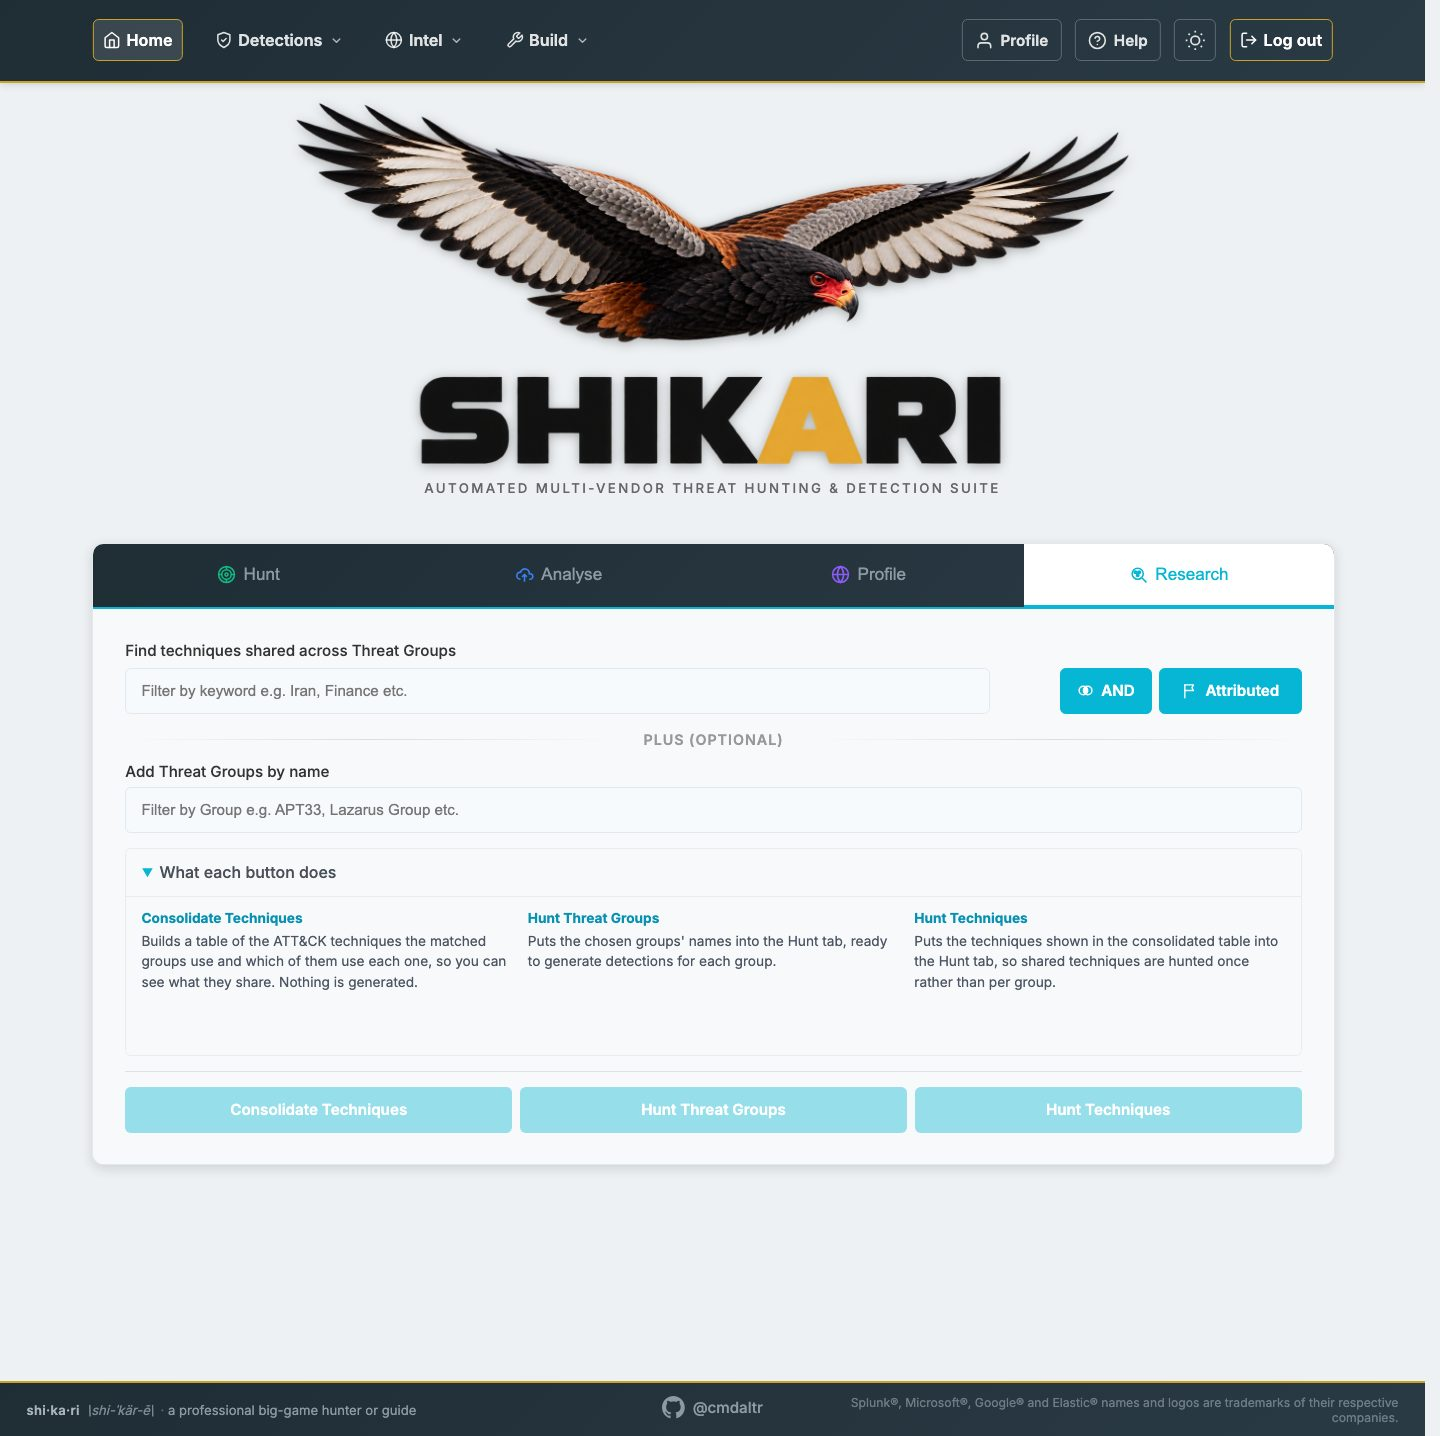
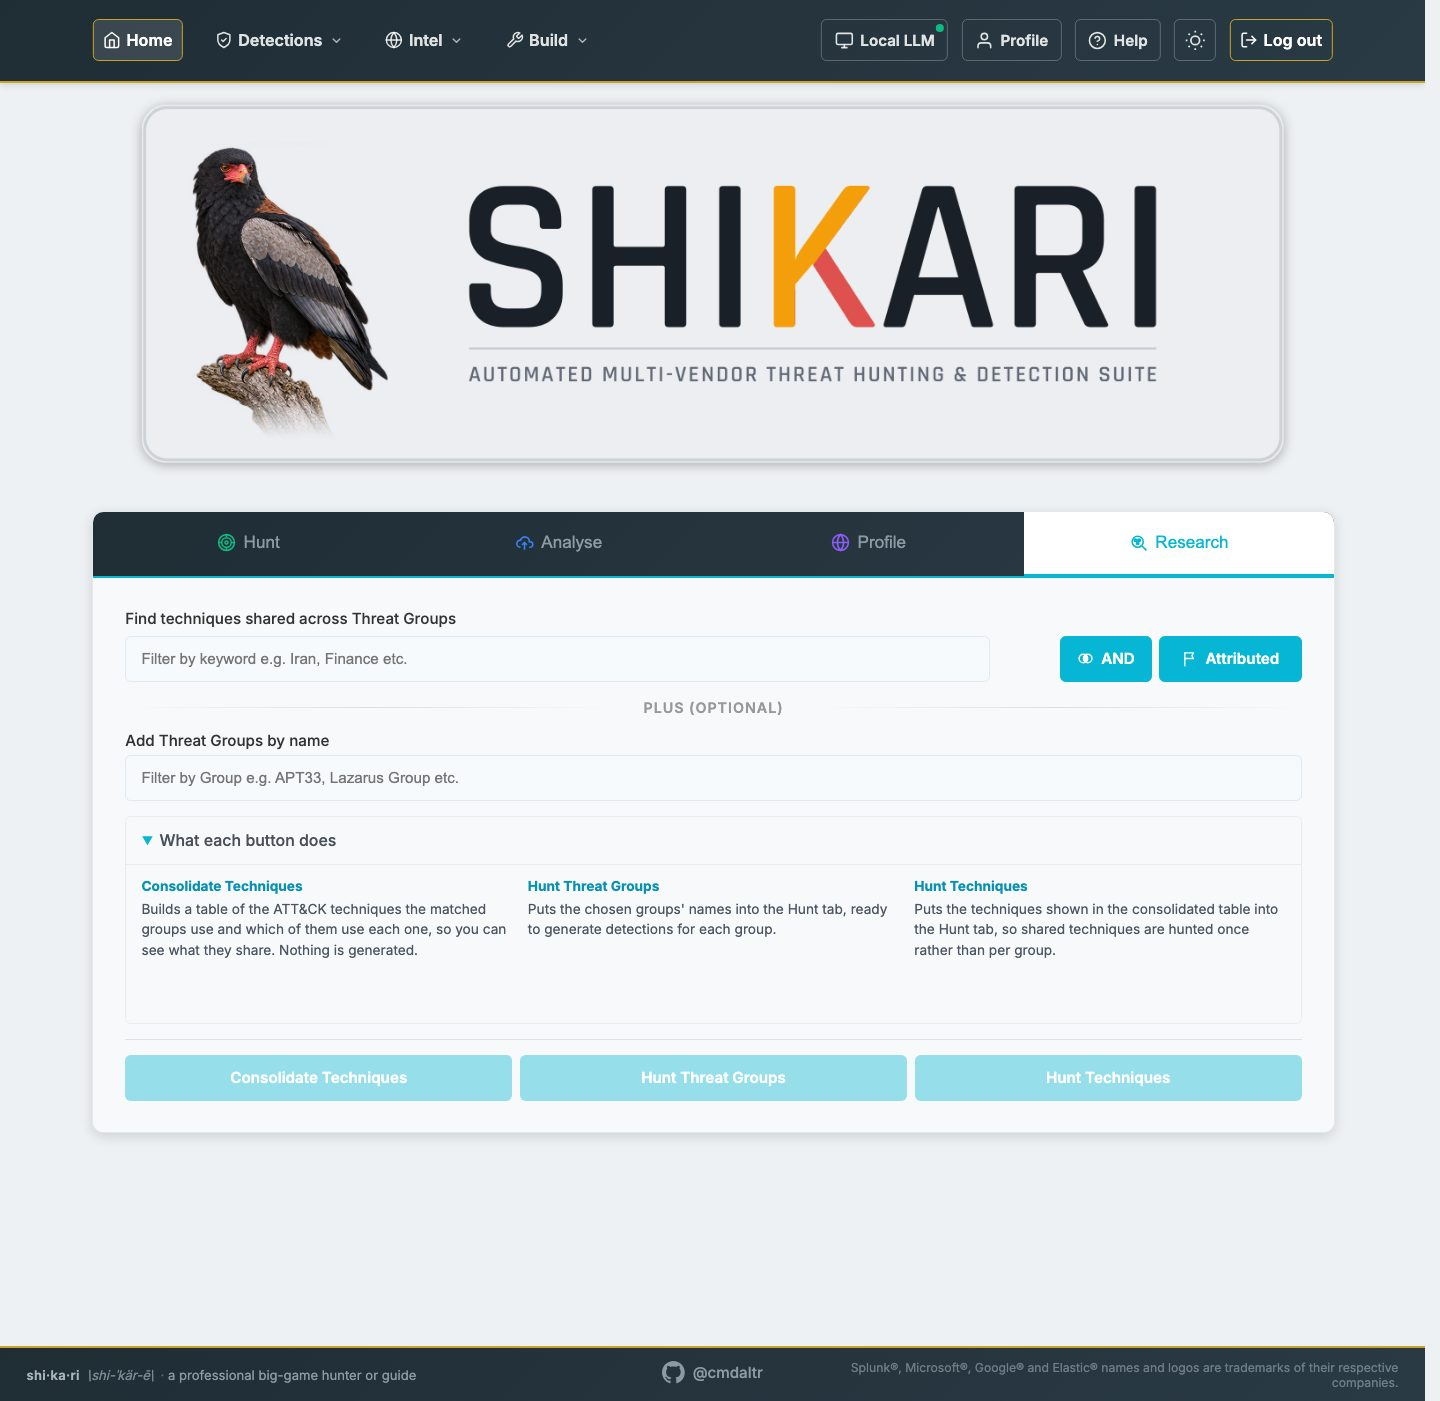
chore(guide): recapture 24 pages on refreshed brand, seed real-group anatomy
Recapture all guide screenshots with the new perched-eagle branding. Fix test_data
populate to tag sample detections 'Group:SampleSpider' so library flows resolve, and
point the results capture at SampleSpider to stay under the height cap. The flows and
anatomy pages intrinsically need real ATT&CK intrusion sets, so the Library is seeded
with APT29, Lazarus Group and Ke3chang hunts for those shots.

Claude-Session: https://claude.ai/code/session_01TdsyJhdE2ikmQ4p4t3y7rH

diff --git a/shikari/cli/test_data.py b/shikari/cli/test_data.py
@@ -283,7 +283,7 @@ def _seed_db(manifest, email):
                 user_id=user.id, title=f"{LABEL} {name} ({tid})", detection_type=DetectionType.DETECTION,
                 visibility=VisibilityType.PRIVATE,
                 content=json.dumps({"technique_id": tid, "query": "sample", "platform": "mde"}),
-                platform="mde", tags=json.dumps([LABEL, GROUP]))
+                platform="mde", tags=json.dumps([LABEL, f"Group:{GROUP}"]))
             db.add(lib); db.flush(); lib_ids.append(lib.id)
 
         db.commit()
